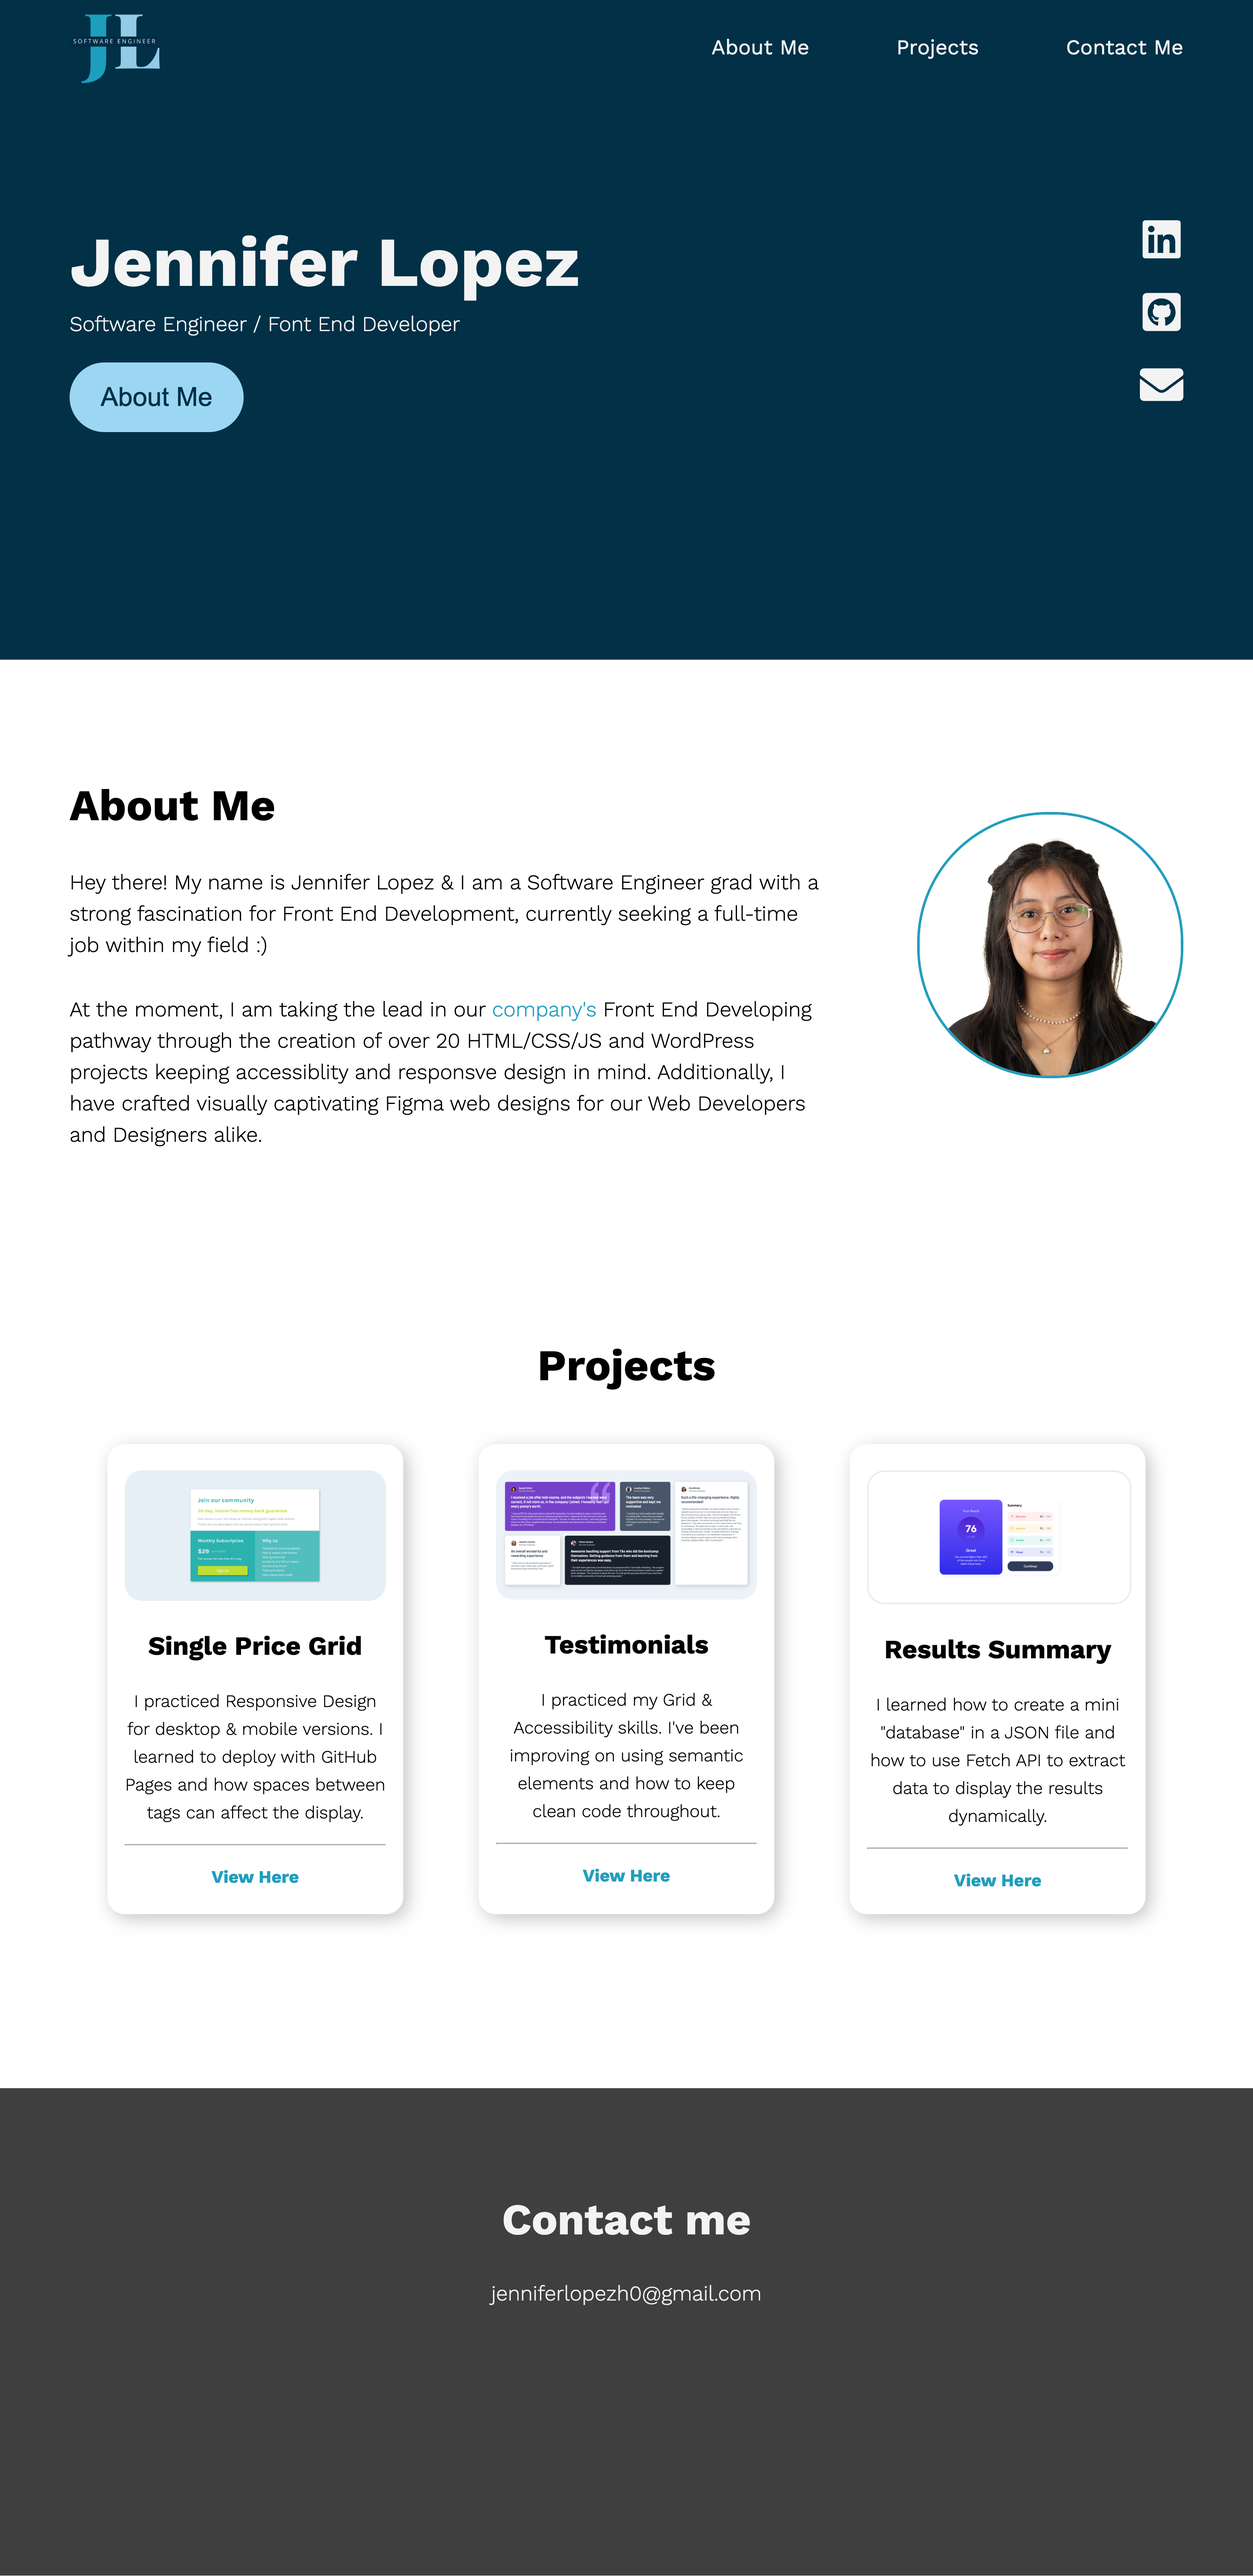
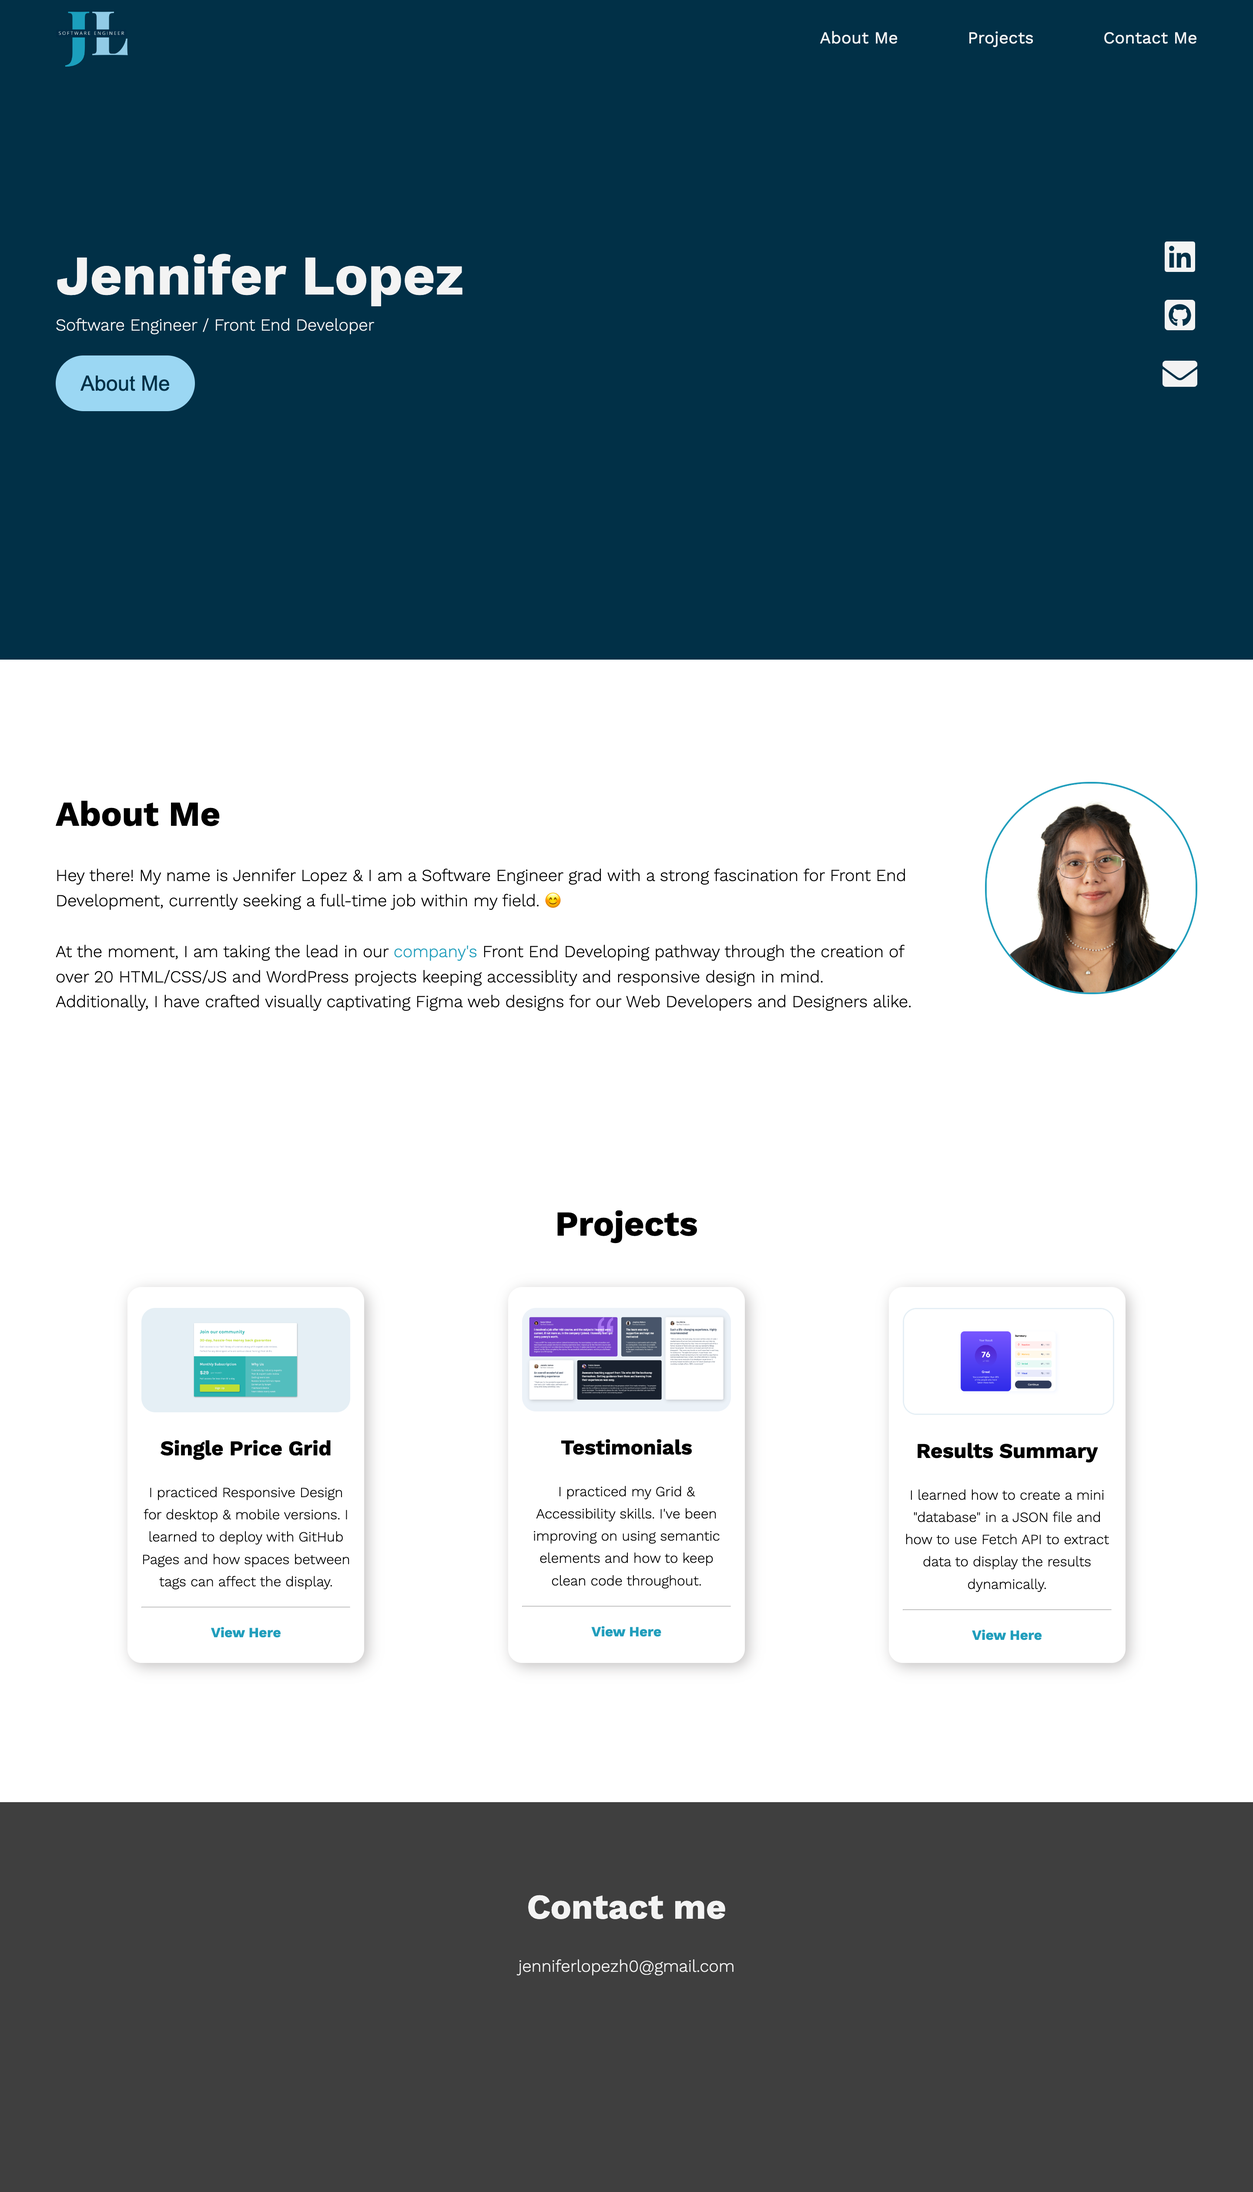
fixed up grammar

diff --git a/index.html b/index.html
@@ -36,7 +36,7 @@
         <div class="hero">
             <div class="hero-text">
                 <h1> Jennifer Lopez </h1>
-                <p> Software Engineer / Font End Developer </p>
+                <p> Software Engineer / Front End Developer </p>
                 <a href="#about"><button> About Me </button></a>
             </div>
             <div class="hero-social-media">
@@ -58,7 +58,7 @@
             <h2> About Me </h2>
             <p id="about-p1"> Hey there! My name is Jennifer Lopez & I am a Software Engineer
                 grad with a strong fascination for Front End Development, currently
-                seeking a full-time job within my field :)
+                seeking a full-time job within my field. &#128522;
             </p>
             <br>
             <br>
@@ -66,7 +66,7 @@
                 <a href="https://digitalnest.org/" target="_blank"> company's</a>
                 Front End Developing pathway through the creation of over 20
                 HTML/CSS/JS and WordPress projects keeping accessiblity and
-                responsve design in mind. Additionally, I have crafted visually
+                responsive design in mind. Additionally, I have crafted visually
                 captivating Figma web designs for our Web Developers and
                 Designers alike.
             </p>
